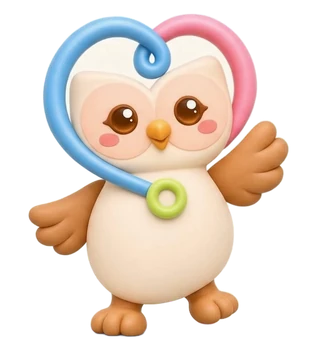
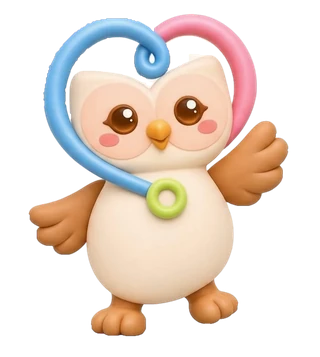
Unidades: Ver mapa grande e botões reorganizados; nota oculta; recorte do personagem refeito
Claude-Session: https://claude.ai/code/session_01K33dnm2aNvWgxi8y9p1CxN

diff --git a/assets/js/app.js b/assets/js/app.js
@@ -519,6 +519,7 @@
       <path id="${id}" class="mapa__destaque" d="${m.ruaPath}" pathLength="1"/>
       <text class="mapa__nome"><textPath href="#${id}" startOffset="50%" text-anchor="middle">${esc(m.rua)}</textPath></text>
       <circle class="mapa__carro" r="3.2" style="offset-path: path('${m.ruaPath}')"/>
+      <text class="mapa__credito" x="314" y="195" text-anchor="end">© OpenStreetMap</text>
       <g class="mapa__pin" transform="translate(160 100)">
         <ellipse class="mapa__anel" rx="16" ry="7"/><ellipse class="mapa__anel mapa__anel--2" rx="16" ry="7"/>
         <ellipse class="mapa__sombra" rx="7" ry="2.6"/>
@@ -527,6 +528,10 @@
     </svg>`;
   }
 
+  const verMapa = (u, cls) => u.mapa ? `<a class="${cls}" href="${esc(u.mapa)}" target="_blank" rel="noopener" aria-label="Ver a unidade ${esc(u.nome)} no mapa"><svg aria-hidden="true"><use href="#i-mapa"/></svg>Ver mapa</a>` : "";
+  const ligarAgora = (u) => `<a class="u-btn" href="tel:${esc(u.telefone.tel)}" aria-label="Ligar agora para a unidade ${esc(u.nome)}, ${esc(u.telefone.exibicao)}"><svg aria-hidden="true"><use href="#i-tel"/></svg>Ligar agora</a>`;
+  const agendarAqui = (u) => `<a class="u-btn u-btn--forte" href="#" data-agendar-unidade="${esc(u.id)}" data-unidade-fixa="${esc(u.id)}"><svg aria-hidden="true"><use href="#i-wa"/></svg>Agendar</a>`;
+
   function renderUnidades() {
     $("#lista-unidades").innerHTML = C.unidades.map((u, i) => `
       <li class="unidade" style="--i:${i}" data-entrada="unidade" data-cor="${esc(u.cor || "azul")}">
@@ -534,22 +539,18 @@
         <div class="unidade__corpo">
           <h3>${esc(u.nome)}</h3>
           <p class="unidade__end">${esc(u.enderecoCurto || "Endereço informado pela central")}</p>
-          <p class="unidade__hora"><svg aria-hidden="true"><use href="#i-relogio"/></svg><span>${u.horario.map(esc).join("<br>")}${u.divergencia ? " *" : ""}</span></p>
-          <div class="unidade__acoes">
-            ${u.mapa ? `<a class="u-btn" href="${esc(u.mapa)}" target="_blank" rel="noopener"><svg aria-hidden="true"><use href="#i-mapa"/></svg>Ver mapa</a>` : ""}
-            <a class="u-btn" href="tel:${esc(u.telefone.tel)}" aria-label="Ligar agora para a unidade ${esc(u.nome)}, ${esc(u.telefone.exibicao)}"><svg aria-hidden="true"><use href="#i-tel"/></svg>Ligar agora</a>
-            <a class="u-btn u-btn--forte" href="#" data-agendar-unidade="${esc(u.id)}" data-unidade-fixa="${esc(u.id)}"><svg aria-hidden="true"><use href="#i-wa"/></svg>Agendar</a>
-          </div>
-          ${u.extra ? `<div class="unidade__extra"><p><b>${esc(u.extra.rotulo)}</b><span>${esc(u.extra.exibicao)}</span></p>
+          <p class="unidade__hora"><svg aria-hidden="true"><use href="#i-relogio"/></svg><span>${u.horario.map(esc).join("<br>")}</span></p>
+          ${u.extra ? `<div class="unidade__acoes">${verMapa(u, "u-btn")}${ligarAgora(u)}${agendarAqui(u)}</div>
+          <div class="unidade__extra"><p><b>${esc(u.extra.rotulo)}</b><span>${esc(u.extra.exibicao)}</span></p>
             <span class="unidade__extra-acoes">
               ${u.extra.whatsapp ? `<a class="u-mini" href="https://wa.me/${esc(u.extra.whatsapp)}?text=${encodeURIComponent(`Olá! Vim pelo site do Instituto Corujinhas e gostaria de falar sobre ${u.extra.rotulo.toLowerCase()} na unidade ${u.nome}.`)}" target="_blank" rel="noopener" aria-label="WhatsApp da ${esc(u.extra.rotulo)} ${esc(u.nome)}"><svg aria-hidden="true"><use href="#i-wa"/></svg>WhatsApp</a>` : ""}
               <a class="u-mini" href="tel:${esc(u.extra.tel)}" aria-label="Ligar para ${esc(u.extra.rotulo)} ${esc(u.nome)}"><svg aria-hidden="true"><use href="#i-tel"/></svg>Ligar</a>
-            </span></div>` : ""}
+            </span></div>`
+          : `<div class="unidade__acoes unidade__acoes--2">${ligarAgora(u)}${agendarAqui(u)}</div>
+          ${verMapa(u, "u-mapa-grande")}`}
         </div>
       </li>`).join("");
     $$("[data-agendar-unidade]").forEach((a) => ligar(a, { tipo: "geral" }));
-    const div = C.unidades.find((u) => u.divergencia);
-    $("#unidades-nota").innerHTML = `${div ? `* ${esc(div.nome)}: ${esc(div.divergencia)}. Confirme com a central. ` : ""}Mapas ilustrados com dados © colaboradores do <a href="https://www.openstreetmap.org/copyright" target="_blank" rel="noopener">OpenStreetMap</a>.`;
   }
 
   /* ---------- Textos: títulos entram palavra por palavra ---------- */

diff --git a/index.html b/index.html
@@ -25,7 +25,7 @@
 <link rel="preconnect" href="https://fonts.googleapis.com">
 <link rel="preconnect" href="https://fonts.gstatic.com" crossorigin>
 <link href="https://fonts.googleapis.com/css2?family=Nunito:wght@700;800;900&family=Figtree:wght@400;500;600;700&display=swap" rel="stylesheet">
-<link rel="stylesheet" href="assets/css/styles.css?v=e08f5cfdf3">
+<link rel="stylesheet" href="assets/css/styles.css?v=d711d39e64">
 <script>
   /* Abertura com a logo: uma vez por sessão, nunca ao voltar pelo histórico, nunca com movimento reduzido no sistema.
      A camada não recebe cliques e some sozinha. */
@@ -156,8 +156,8 @@
         </header>
         <div class="mascote" id="mascote" aria-hidden="true">
           <picture>
-            <source media="(prefers-reduced-motion: reduce)" srcset="assets/mascote/corujinha-animada-1.webp">
-            <img src="assets/mascote/corujinha-animada.webp" width="340" height="379" alt="" loading="lazy" decoding="async">
+            <source media="(prefers-reduced-motion: reduce)" srcset="assets/mascote/corujinha-animada-1.webp?v=cb2c617935">
+            <img src="assets/mascote/corujinha-animada.webp?v=a0adbf663b" width="340" height="379" alt="" loading="lazy" decoding="async">
           </picture>
         </div>
       </div>
@@ -283,12 +283,11 @@
       </header>
       <p class="dica-deslize" aria-hidden="true">Deslize para ver as 4 unidades →</p>
       <ul class="unidades__lista" id="lista-unidades"></ul>
-      <p class="unidades__nota" id="unidades-nota"></p>
 
       <aside class="central" aria-labelledby="t-central" data-entrada="central">
         <picture class="central__mascote" aria-hidden="true">
-          <source media="(prefers-reduced-motion: reduce)" srcset="assets/mascote/corujinha-animada-1.webp">
-          <img src="assets/mascote/corujinha-animada.webp" width="340" height="379" alt="" loading="lazy" decoding="async">
+          <source media="(prefers-reduced-motion: reduce)" srcset="assets/mascote/corujinha-animada-1.webp?v=cb2c617935">
+          <img src="assets/mascote/corujinha-animada.webp?v=a0adbf663b" width="340" height="379" alt="" loading="lazy" decoding="async">
         </picture>
         <div class="central__info">
           <p class="central__rotulo">Central de agendamento</p>
@@ -381,6 +380,6 @@
 <script src="assets/js/config.js?v=9aeda51dcc"></script>
 <script src="assets/js/mensagens.js?v=222fa19a8c"></script>
 <script src="assets/js/mapas.js?v=b142939b1a"></script>
-<script src="assets/js/app.js?v=c38e804a02"></script>
+<script src="assets/js/app.js?v=4a83cc5c4d"></script>
 </body>
 </html>

diff --git a/assets/css/styles.css b/assets/css/styles.css
@@ -1130,3 +1130,14 @@ html.js #equipe-lista:not(.visivel) .medico { opacity: 0; transform: translate3d
 .medico__opcoes-topo p { font-size: 15px; }
 .medico--aberto .pro__foto img { transform: scale(1.03); }
 .medico__selo { font-size: 11.5px; padding: 3px 9px; }
+
+/* ===================== v11: unidades ===================== */
+.unidade__corpo { display: flex; flex-direction: column; gap: 8px; }
+.unidade__acoes--2 { grid-template-columns: repeat(2, minmax(0, 1fr)); }
+.unidade__acoes--2 .u-btn { grid-auto-flow: column; justify-content: center; align-items: center; gap: 7px; padding: 11px 8px; font-size: 13.5px; }
+.u-mapa-grande { margin-top: auto; display: flex; align-items: center; justify-content: center; gap: 9px; min-height: 52px; padding: 0 16px; border-radius: 16px; background: var(--u-fundo); border: 1.5px solid var(--u-casca); color: var(--azul-escuro); font: 800 15px var(--f-titulo); text-decoration: none; transition: transform .25s var(--suave), background-color .25s, box-shadow .25s, border-color .25s; }
+.u-mapa-grande svg { width: 21px; height: 21px; color: var(--u-forte); transition: transform .35s var(--suave); }
+.u-mapa-grande:hover { background: #fff; border-color: var(--u); transform: translateY(-2px); box-shadow: 0 10px 22px -12px rgb(19 63 108 / .45); }
+.u-mapa-grande:hover svg { transform: translateY(-2px) scale(1.08); }
+.unidade__extra { margin-top: auto; }
+.mapa__credito { font: 600 6.5px var(--f-texto); fill: rgb(19 63 108 / .38); letter-spacing: .02em; }
